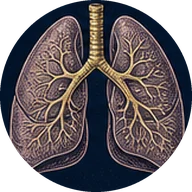
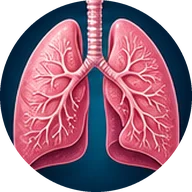
Themapictogrammen: frissere ElevenLabs-medaillons (klassieke versie bewaard)
Claude-Session: https://claude.ai/code/session_01SiyXcNeua6wp9N9nME8PhR

diff --git a/kunst.html b/kunst.html
@@ -40,7 +40,7 @@ a.figlink{display:block;text-decoration:none}
 <div id="lijst"></div>
 <section class="thema">
   <h2>Pictogrammen van de thema's</h2>
-  <p>De ronde medaillons op de hoofdpagina, uitgeknipt uit één vel zodat ze dezelfde stijl hebben (img/kunst/iconen/). De andere drie vellen staan in varianten/.</p>
+  <p>De ronde medaillons op de hoofdpagina, uitgeknipt uit één vel zodat ze dezelfde stijl hebben (img/kunst/iconen/; Kamiel 21 okt 2026: de eerste, klassieke versie voelde te vergankelijk, dus nu een frissere; de klassieke staat in iconen/klassiek/).</p>
   <div id="iconen" style="display:flex;flex-wrap:wrap;gap:14px"></div>
   <p class="lbl">Alle vellen</p><div class="var"></div>
 </section>
@@ -72,7 +72,7 @@ const THEMAS=[
 const fig=(src,cap,cls='',alt='')=>`<a class="figlink" href="${src}"><figure class="${cls}"><img src="${src}" alt="${alt}" loading="lazy"><figcaption>${cap}</figcaption></figure></a>`;
 const ICONEN=['cellen','dna','stofwisseling','voeding','transport','gaswisseling','afweer','regeling','voortplanting','erfelijkheid','evolutie','gedrag','planten','ecologie','milieu','examens'];
 document.getElementById('iconen').innerHTML=ICONEN.map(i=>`<figure style="width:96px;background:none;border:0;text-align:center"><img src="img/kunst/iconen/${i}.webp" alt="Pictogram ${i}" style="width:80px;height:80px;aspect-ratio:1;border-radius:999px;margin:0 auto;border:1px solid var(--goud)"><figcaption style="padding:4px 0 0">${i}</figcaption></figure>`).join('');
-document.querySelector('#iconen').parentElement.querySelector('.var').innerHTML=[1,2,3,4].map(k=>fig(`img/kunst/varianten/iconen-${k}.webp`,`Vel ${k}${k===1?' · gebruikt':''}`,k===1?'gekozen':'',`Pictogramvel ${k}`)).join('');
+document.querySelector('#iconen').parentElement.querySelector('.var').innerHTML=[1,2,3,4].map(k=>fig(`img/kunst/varianten/iconen-fris-${k}.webp`,`Fris vel ${k}${k===3?' · gebruikt':''}`,k===3?'gekozen':'',`Pictogramvel fris ${k}`)).join('')+[1,2,3,4].map(k=>fig(`img/kunst/varianten/iconen-${k}.webp`,`Klassiek vel ${k}`,'',`Pictogramvel klassiek ${k}`)).join('');
 document.getElementById('proef').innerHTML=['cellen','dna','evolutie'].flatMap(t=>['gravure','kleur'].map(st=>fig(`img/kunst/thema/${t}-${st}.webp`,`${t} · ${st}`,'',`${t} in ${st}stijl`))).join('');
 document.getElementById('lijst').innerHTML=THEMAS.map(t=>`<section class="thema">
   <h2>${t.naam}</h2><p>${t.tekst}</p>

diff --git a/index.html b/index.html
@@ -2773,7 +2773,7 @@ function grondWissel(){
 function home(){
   const nf=id=>HOOFDSTUKKEN[id]?HOOFDSTUKKEN[id].films.length:0;
   const thema=id=>{const h=HOOFDSTUKKEN[id];if(!h)return '';const vwo=/^vwo\b/.test(h.meta||'')?' <span class="vwo-tag mono">vwo</span>':'';
-    return `<li><a href="#${id}">${ICOON.includes(id)?`<span class="tk foto"><img src="img/kunst/iconen/${id}.webp" alt="" width="64" height="64" decoding="async"></span>`:`<span class="tk">${kunst(id)}</span>`}<b>${esc(h.titel)}${vwo}</b><span class="mat">${esc(telling(id))}</span></a></li>`};
+    return `<li><a href="#${id}">${ICOON.includes(id)?`<span class="tk foto"><img src="img/kunst/iconen/${id}.webp?v=2" alt="" width="64" height="64" decoding="async"></span>`:`<span class="tk">${kunst(id)}</span>`}<b>${esc(h.titel)}${vwo}</b><span class="mat">${esc(telling(id))}</span></a></li>`};
   const OB=[['32A','Van cel tot lichaam','cellen, organen en hoe je lijf werkt','cellen'],['32B','Hoe leven doorgaat','voortplanting, erfelijkheid en evolutie','evolutie'],['32C','Gezond blijven','voeding, slaap, microben en ziek worden','afweer'],['33C','Natuur om je heen','wie woont waar en wie eet wie','ecologie']];
   let out=grondLaag()+`<section class="wrap hero hero-kort">
     <div>

diff --git a/CLAUDE.md b/CLAUDE.md
@@ -1,6 +1,6 @@
 # Biologie bij Kamiel — werkafspraken voor Claude
 
-Statische site (GitHub Pages, branch `main`, map `/`): `index.html` is de nieuwe site (sinds 12 okt 2026; de inhoud staat als JSON in `HOOFDSTUKKEN` en `NIVEAUS` bovenin het script, hash-routes `#<hoofdstuk>`, `#films`, `#tools`, `#pta`). Sinds 20 okt 2026 is de hoofdpagina (`#home`, menu 'Thema's') opgebouwd uit drie vlakken los van het PTA: 'Van molecuul tot planeet' (alle thema's, gegroepeerd in `BASIS` in het script), 'Eerste ontdekkingen' (onderbouw, uit `NIVEAUS.onderbouw`) en 'Een kijkje vooruit' (Wat word jij?, richtingen in `VERDER` → `vervolg.html#<cluster>`); de oude hoofdpagina per PTA-onderdeel staat onder het tabblad 'PTA Agora' (`#pta`, functie `pta()`). Een nieuw thema zet je ook in `BASIS`. Achtergrond hoofdpagina (Kamiel 20 okt 2026: kunst en biologie gecombineerd, niet per se de thema's): vier procedureel getekende bio-art-platen in `KUNSTPLATEN` (Groei: zonnebloemspiraal en varens · Onder de microscoop: radiolariën en diatomeeën · Netwerk: schimmeldraden · In zee: kwallen en nautilus) plus beeldplaten in `FOTOPLATEN`, met ElevenLabs gemaakte nieuwe versies van dezelfde vier (21 okt 2026: `img/kunst/plankton.webp`, `groei.webp`, `netwerk.webp`, `zee.webp`, en als nieuwe thema's zonder oude tekening `oerbos.webp`, `mieren.webp` (mierenkolonie) en `kolibrie.webp` (de kolibrie is een videoloop van 5 s, `kolibrie.webm` + `.mp4`, poster = `kolibrie.webp`; derde veld in `FOTOPLATEN` = video, speelt alleen als hij zichtbaar is via `grondVideo()`, niet bij 'minder beweging'; seedance-video kostte ±14.000 credits. Vierde veld `{voor:[cx,cy,rx,ry]}` (beeldfracties) tekent dat deel van de plaat via canvas `#kunstvoor` (`voorLus`, mix-blend lighten, zachte ellips) bovenop de titelkaart en het eerste vlak eronder: Kamiel wilde de kolibrie vóór de kaart). Kamiel 21 okt 2026: de getekende platen staan in de donkere stand even uit (`TEKENPLATEN_DONKER=false`, klasse `zonder-tekening`); in de lichte stand draaien ze nog, want de beelden zijn donker; De ronde themapictogrammen in de themategels van de hoofdpagina zijn sinds 21 okt 2026 ElevenLabs-medaillons (`img/kunst/iconen/<id>.webp`, uitgeknipt uit één vel zodat de stijl gelijk is; vellen in `varianten/iconen-1..4.webp`, vel 1 gebruikt), lijst `ICOON` in index.html (niet in de lijst = oude lijntekening uit `KUNST`; elders op de site blijven de lijntekeningen). Themaplaten als ElevenLabs-gravure voor alle 16 thema's (Kamiel 21 okt 2026 koos de gravurestijl, net als de wolf; de procedurele platen in `T.<id>` blijven als reserve staan): `img/themakunst/<id>-gravure.webp`, ingebouwd via `GRAVURE` in js/themakunst.js (`[bestand, x, y, breedte]` in het 1600×1000-vlak, standaard 640, 215, 900; zachte radiale maskerrand zodat de iets lichtere navy van het beeld niet als rechthoek opvalt; hoofdfiguur leeg, zonder uitsparing). De kleurproeven staan nog in `img/kunst/thema/` en op kunst.html; Haeckel-achtig, donker navy, rustig vlak links-midden; alleen in de donkere stand, de roulatie slaat verborgen platen over). Kamiel wil oud en nieuw voorlopig náást elkaar in de roulatie om te vergelijken. Alle achtergronden worden bewaard in `img/kunst/`: `oud/` = de getekende platen als SVG (rustig en intens, donkere kleuren; opnieuw te maken uit `KUNSTPLATEN`), `varianten/` = alle ElevenLabs-varianten (`<thema>-1..4.webp`; van plankton alleen de gekozen versie), ElevenLabs-flow https://elevenlabs.io/app/flows/CJlOchvhkxSLAAT5zVTX. Vergelijkpagina: `kunst.html` (niet gelinkt, noindex; lijst `THEMAS` in het script); zet een nieuwe achtergrond daar ook bij, vaste laag over het hele scherm die elke 14 s overvloeit (`grondWissel`); geen korrel. Drie standen via de knop naast licht/donker (`#kunstknop`, alleen op de hoofdpagina; localStorage `kunst`, ook `?kunst=`): `rustig` (standaard; de kunst schemert licht door de vlakken), `intens` (veel meer en vollere kunst met kleurwolken, dikkere lijnen, titel op matglas) en `uit`. Body krijgt `data-kunst`. Themapagina's (Kamiel 20 okt 2026: intense kunst, dikker en kleurrijker, geïnspireerd door het thema zelf) krijgen een eigen plaat uit `js/themakunst.js`: `THEMAKUNST[id]()` = achtergrond (vaste laag, met een uitgespaarde ellips rechtsboven) en `THEMAHELD[id]()` = hoofdfiguur groot in de kop (bv. een eigen schets van Charles Darwin bij Evolutie, hart bij Transport, neuron bij Regeling). Dezelfde kunstknop geldt (rustig = halve sterkte, intens = vol, uit = gewone pagina met het oude embleem); kop en filmlijst staan dan op matglas. Na een wijziging aan themakunst.js de versie `?v=` in index.html bijwerken (md5, 8 tekens). Een nieuw thema krijgt ook een plaat en een hoofdfiguur. Stijl (Kamiel 20 okt 2026, na de eerste versie): realistischer en serieuzer, als oude natuurplaten en gravures: fijne inktlijnen (var(--text)/--text2), arcering en stippels in plaats van vlakke kleur (patterns `tk-arc`, `tk-kruis`, `tk-stip`), kleur alleen waar het iets toevoegt (per thema in `ACCENT`, bv. rood bloed bij Transport, groene erwten bij Erfelijkheid); Darwin als zwart-witte gravure in een ovaal medaillon. Ecologie (Kamiel 21 okt 2026: 'een majestueuze wolf in een donker woud, als een echt beest'): `wolf()` = silhouet uit punten (Catmull-Rom) met duizenden vachtstreken per lichaamsdeel (donker zadel, lichte buik, halskraag, donkere staartpunt), barnsteen ogen, vaste grijstinten zodat hij in licht en donker hetzelfde is; `woud()` = vaste nachtscène (maan, sterren, drie rijen sparren, mist). Sinds 21 okt 2026 (Kamiel: 'strakke versie uitproberen') is de Ecologie-plaat een met ElevenLabs gemaakte gravure (strakke lijnstijl, huilende wolf, maan, Veluwe-achtige bosrand) in `img/themakunst/ecologie-wolf.webp`, rechts geplaatst met zacht uitlopende randen op navy (sinds 21 okt middag kleiner en verder rechts: x 830, y 215, b 780, zodat maan en wolf naast de titelkaart en onder de menubalk vallen); de hoofdfiguur is daarom leeg. `woud()` en `wolf()` staan nog in themakunst.js. Volledige scènes staan in `THEMAKUNST_ZONDERGAT` (geen uitsparing achter de hoofdfiguur). Tabblad 'Agora onderbouw' (`#onderbouw`, functie `onderbouwPagina()`) toont de kerndoelen als kaarten; op de hoofdpagina staan géén kerndoelcodes (Kamiel 20 okt 2026), het onderbouwvlak gebruikt de lijst `OB`. Hoofdmenu (index, challenges, vervolg; houd ze gelijk): Thema's · Films · Tools · Agora (uitklapmenu `details.menu`: PTA Agora, Agora onderbouw, Jaarplanner, PTA-route, Examenatlas, Challenges) · Wat word jij? · Klas live, op één regel. 'Klas live' is sinds 20 okt 2026 de naam voor de werksessies (`sessie/`) op alles wat leerlingen en docent zien; in code en bestandsnamen heet het nog sessie/werksessie. De havo/vwo-knop staat alleen nog op de PTA Agora-pagina zelf, niet in de kopbalk. De oude site staat als `oud.html` en wordt niet meer bijgewerkt; `nieuw/` stuurt door naar de hoofdpagina. Films in `films/<hoofdstuk>/`, tools in `tools/`, `pta-route.html`. `jaarplanner.html` (sinds 21 okt 2026 op de site, Agora-menu) is de jaarplanner 2026-2027 week voor week (tabs havo 4, havo 5, vwo 4+5, vwo 6, PTA-route; `#havo4` enz.), overgenomen uit de claude.ai-artifact https://claude.ai/artifact/W5ueD4LEwp5Dpj8kKWqb5M met `SITE='.'` zodat filmlinks relatief zijn; data in `PLANNERS` bovenin het script. Pas een wijziging aan de planner voortaan hier aan (en eventueel ook in de artifact). `examenatlas.html` is de Examenatlas (CE biologie 2018–2026, ingang per PTA-subonderdeel; data per niveau in `examenatlas/havo.json` en `examenatlas/vwo.json`, gemaakt met `scripts/examenatlas_bouwen.py` uit de oude claude.ai-atlas; koppeling onderwerp → subonderdeel via de methodehoofdstukken, handmatige correcties in `OVERRIDE`; de echte vragen en antwoorden staan als webp-uitsneden in `examenatlas/img/<niveau>/<examen>/` (`<nr>a.webp` = vraag met info sinds de vorige vraag, `a<nr>a.webp` = beoordelingsmodel), gemaakt met `scripts/examenknip/knip.py`, `knip_c.py` en `knip_u.py` (`u<nr>a.webp` = deel van de uitwerkbijlage) uit de pdf's van Kamiel en gekoppeld met `scripts/examenatlas_vragen.py` — draai dat opnieuw na `examenatlas_bouwen.py`). `challenges.html` is een aparte pagina met biologische challenges (hoofdvraag + subvragen); een nieuwe challenge = blok in `CHALLENGES` plus een lijntekening in `KUNST` (sleutel = id), bovenin het script van die pagina. Elke subvraag klapt uit met hulp uit `js/challenges-hulp.js` (`HULP['<id>-<nr>']` = `{c: context, h: 3 hints van algemeen naar concreet (nooit het antwoord), z: zoektermen, k: 'je bent klaar als'-criteria, let: optionele veiligheidsnoot}`); de leerling ziet eerst context + 'denk eerst zelf', hints en zoektermen pas op verzoek, één voor één (Kamiel 20 okt 2026: uitdaging niet weggeven). Een nieuwe challenge krijgt dus ook vier `HULP`-blokken; deeplink `challenges.html#<id>-<nr>` opent die subvraag. `vervolg.html` ('Wat word jij?', studie en beroep) toont vervolgopleidingen per richting (`CLUSTERS`) en gebied (`GEBIEDEN`); per gebied staan de extra films voor dat vak, buiten het PTA (`basis`; een geplande film is een object `{titel, vraag, opbouw, nieuw, bouwt, advies, was, id}` en verschijnt als uitklapbare 'komt nog'-rij met startvraag, hoofdstukken, wat hij toevoegt en de PTA-films waarop hij voortbouwt; dezelfde `id` in meerdere gebieden = één gedeelde film; `schrappen:true` + `reden` = voorstel om te schrappen, alleen zichtbaar met `?k=1`; de films mogen buiten de biologie gaan en laten zien wat je in dat vak echt doet: methoden, gesprekken, techniek, beleid; een af onderwerp wordt `[titel, href]`; zulke films staan in `films/vervolg/`, duur in `films/vervolg/films.json`), en apart daarvan bestaande films uit de lesstof (`pta`: lijst met hrefs, op de pagina 'Al op de site · uit de lesstof (PTA)'; dit blok staat sinds 20 okt 2026 op Kamiels verzoek uit via `TOON_PTA=false` in vervolg.html, de data blijft staan; ook het blok 'De gedeelde kern' (`KERN`) staat uit via `TOON_KERN=false`: Kamiel vindt dat leerlingen eerst het hele curriculum doen voordat ze deze films kijken). Titels en hoofdstuk van die films komen uit `FILMS` in vervolg.html: draai `python3 scripts/vervolg_films.py` na het toevoegen of hernoemen van films (meldt ook dode hrefs). Stap 4 'Opleidingen' (sinds 20 okt 2026, eerst alleen psychologie als voorbeeld): veld `opleidingen` per gebied `{gecontroleerd, jaar, routes:[{niveau, naam, waar, duur, toelating, selectie, link}], let, doorstroom, kennismaken, meer:[[tekst,url]]}`, getoond door `opleidingenBlok`. De balk met de 4 stappen bovenaan (`STAPPEN`) is sinds 20 okt 2026 aanklikbaar en wisselt alle gebiedskaarten tegelijk (variabele `stap`, link `?stap=4`); Stap 1 (de films) is standaard, stap 2/3 en een stap 4 zonder data tonen een 'komt later'-tekst. Kamiel wilde géén tabrij per kaart; de balk (`.stapbalk`) blijft bij scrollen onder de menubalk staan en wordt dan compact (klasse `vast`, functie `plak`; op de telefoon één regel met korte namen `kort`); instellingen dicht bij huis eerst (Radboud, HAN, ROC Nijmegen, Wageningen), feiten opzoeken en datum bijwerken. Films voor 'Wat word jij?' bouw je volgens `films/vervolg/BOUWEN.md` (werkmap `hw/` buiten de repo opzetten, API, bouwen, in de repo zetten); werkwijze per gebied: eerst een kritische check welke geplande films echt iets toevoegen, Kamiel keurt goed, dan alles bouwen. Stap 2 'Een dag uit het werk' volgt (pilot psychologie); stap 3 'Praktijkopdracht' blijft bewust 'later' tot de tools beter zijn, ideeën per gebied in `films/vervolg/STAP3-WENSEN.md`.
+Statische site (GitHub Pages, branch `main`, map `/`): `index.html` is de nieuwe site (sinds 12 okt 2026; de inhoud staat als JSON in `HOOFDSTUKKEN` en `NIVEAUS` bovenin het script, hash-routes `#<hoofdstuk>`, `#films`, `#tools`, `#pta`). Sinds 20 okt 2026 is de hoofdpagina (`#home`, menu 'Thema's') opgebouwd uit drie vlakken los van het PTA: 'Van molecuul tot planeet' (alle thema's, gegroepeerd in `BASIS` in het script), 'Eerste ontdekkingen' (onderbouw, uit `NIVEAUS.onderbouw`) en 'Een kijkje vooruit' (Wat word jij?, richtingen in `VERDER` → `vervolg.html#<cluster>`); de oude hoofdpagina per PTA-onderdeel staat onder het tabblad 'PTA Agora' (`#pta`, functie `pta()`). Een nieuw thema zet je ook in `BASIS`. Achtergrond hoofdpagina (Kamiel 20 okt 2026: kunst en biologie gecombineerd, niet per se de thema's): vier procedureel getekende bio-art-platen in `KUNSTPLATEN` (Groei: zonnebloemspiraal en varens · Onder de microscoop: radiolariën en diatomeeën · Netwerk: schimmeldraden · In zee: kwallen en nautilus) plus beeldplaten in `FOTOPLATEN`, met ElevenLabs gemaakte nieuwe versies van dezelfde vier (21 okt 2026: `img/kunst/plankton.webp`, `groei.webp`, `netwerk.webp`, `zee.webp`, en als nieuwe thema's zonder oude tekening `oerbos.webp`, `mieren.webp` (mierenkolonie) en `kolibrie.webp` (de kolibrie is een videoloop van 5 s, `kolibrie.webm` + `.mp4`, poster = `kolibrie.webp`; derde veld in `FOTOPLATEN` = video, speelt alleen als hij zichtbaar is via `grondVideo()`, niet bij 'minder beweging'; seedance-video kostte ±14.000 credits. Vierde veld `{voor:[cx,cy,rx,ry]}` (beeldfracties) tekent dat deel van de plaat via canvas `#kunstvoor` (`voorLus`, mix-blend lighten, zachte ellips) bovenop de titelkaart en het eerste vlak eronder: Kamiel wilde de kolibrie vóór de kaart). Kamiel 21 okt 2026: de getekende platen staan in de donkere stand even uit (`TEKENPLATEN_DONKER=false`, klasse `zonder-tekening`); in de lichte stand draaien ze nog, want de beelden zijn donker; De ronde themapictogrammen in de themategels van de hoofdpagina zijn sinds 21 okt 2026 ElevenLabs-medaillons (`img/kunst/iconen/<id>.webp`, uitgeknipt uit één vel zodat de stijl gelijk is; Kamiel vond de eerste klassieke versie te 'vergankelijk' en wilde iets frissers: nu de frisse versie uit `varianten/iconen-fris-3.webp` (raster 6×3, zodat de cirkels in 16:9 echt rond blijven; een 4×4-raster werd ovaal), de klassieke staat in `iconen/klassiek/` en `varianten/iconen-1..4.webp`), lijst `ICOON` in index.html (niet in de lijst = oude lijntekening uit `KUNST`; elders op de site blijven de lijntekeningen). Themaplaten als ElevenLabs-gravure voor alle 16 thema's (Kamiel 21 okt 2026 koos de gravurestijl, net als de wolf; de procedurele platen in `T.<id>` blijven als reserve staan): `img/themakunst/<id>-gravure.webp`, ingebouwd via `GRAVURE` in js/themakunst.js (`[bestand, x, y, breedte]` in het 1600×1000-vlak, standaard 640, 215, 900; zachte radiale maskerrand zodat de iets lichtere navy van het beeld niet als rechthoek opvalt; hoofdfiguur leeg, zonder uitsparing). De kleurproeven staan nog in `img/kunst/thema/` en op kunst.html; Haeckel-achtig, donker navy, rustig vlak links-midden; alleen in de donkere stand, de roulatie slaat verborgen platen over). Kamiel wil oud en nieuw voorlopig náást elkaar in de roulatie om te vergelijken. Alle achtergronden worden bewaard in `img/kunst/`: `oud/` = de getekende platen als SVG (rustig en intens, donkere kleuren; opnieuw te maken uit `KUNSTPLATEN`), `varianten/` = alle ElevenLabs-varianten (`<thema>-1..4.webp`; van plankton alleen de gekozen versie), ElevenLabs-flow https://elevenlabs.io/app/flows/CJlOchvhkxSLAAT5zVTX. Vergelijkpagina: `kunst.html` (niet gelinkt, noindex; lijst `THEMAS` in het script); zet een nieuwe achtergrond daar ook bij, vaste laag over het hele scherm die elke 14 s overvloeit (`grondWissel`); geen korrel. Drie standen via de knop naast licht/donker (`#kunstknop`, alleen op de hoofdpagina; localStorage `kunst`, ook `?kunst=`): `rustig` (standaard; de kunst schemert licht door de vlakken), `intens` (veel meer en vollere kunst met kleurwolken, dikkere lijnen, titel op matglas) en `uit`. Body krijgt `data-kunst`. Themapagina's (Kamiel 20 okt 2026: intense kunst, dikker en kleurrijker, geïnspireerd door het thema zelf) krijgen een eigen plaat uit `js/themakunst.js`: `THEMAKUNST[id]()` = achtergrond (vaste laag, met een uitgespaarde ellips rechtsboven) en `THEMAHELD[id]()` = hoofdfiguur groot in de kop (bv. een eigen schets van Charles Darwin bij Evolutie, hart bij Transport, neuron bij Regeling). Dezelfde kunstknop geldt (rustig = halve sterkte, intens = vol, uit = gewone pagina met het oude embleem); kop en filmlijst staan dan op matglas. Na een wijziging aan themakunst.js de versie `?v=` in index.html bijwerken (md5, 8 tekens). Een nieuw thema krijgt ook een plaat en een hoofdfiguur. Stijl (Kamiel 20 okt 2026, na de eerste versie): realistischer en serieuzer, als oude natuurplaten en gravures: fijne inktlijnen (var(--text)/--text2), arcering en stippels in plaats van vlakke kleur (patterns `tk-arc`, `tk-kruis`, `tk-stip`), kleur alleen waar het iets toevoegt (per thema in `ACCENT`, bv. rood bloed bij Transport, groene erwten bij Erfelijkheid); Darwin als zwart-witte gravure in een ovaal medaillon. Ecologie (Kamiel 21 okt 2026: 'een majestueuze wolf in een donker woud, als een echt beest'): `wolf()` = silhouet uit punten (Catmull-Rom) met duizenden vachtstreken per lichaamsdeel (donker zadel, lichte buik, halskraag, donkere staartpunt), barnsteen ogen, vaste grijstinten zodat hij in licht en donker hetzelfde is; `woud()` = vaste nachtscène (maan, sterren, drie rijen sparren, mist). Sinds 21 okt 2026 (Kamiel: 'strakke versie uitproberen') is de Ecologie-plaat een met ElevenLabs gemaakte gravure (strakke lijnstijl, huilende wolf, maan, Veluwe-achtige bosrand) in `img/themakunst/ecologie-wolf.webp`, rechts geplaatst met zacht uitlopende randen op navy (sinds 21 okt middag kleiner en verder rechts: x 830, y 215, b 780, zodat maan en wolf naast de titelkaart en onder de menubalk vallen); de hoofdfiguur is daarom leeg. `woud()` en `wolf()` staan nog in themakunst.js. Volledige scènes staan in `THEMAKUNST_ZONDERGAT` (geen uitsparing achter de hoofdfiguur). Tabblad 'Agora onderbouw' (`#onderbouw`, functie `onderbouwPagina()`) toont de kerndoelen als kaarten; op de hoofdpagina staan géén kerndoelcodes (Kamiel 20 okt 2026), het onderbouwvlak gebruikt de lijst `OB`. Hoofdmenu (index, challenges, vervolg; houd ze gelijk): Thema's · Films · Tools · Agora (uitklapmenu `details.menu`: PTA Agora, Agora onderbouw, Jaarplanner, PTA-route, Examenatlas, Challenges) · Wat word jij? · Klas live, op één regel. 'Klas live' is sinds 20 okt 2026 de naam voor de werksessies (`sessie/`) op alles wat leerlingen en docent zien; in code en bestandsnamen heet het nog sessie/werksessie. De havo/vwo-knop staat alleen nog op de PTA Agora-pagina zelf, niet in de kopbalk. De oude site staat als `oud.html` en wordt niet meer bijgewerkt; `nieuw/` stuurt door naar de hoofdpagina. Films in `films/<hoofdstuk>/`, tools in `tools/`, `pta-route.html`. `jaarplanner.html` (sinds 21 okt 2026 op de site, Agora-menu) is de jaarplanner 2026-2027 week voor week (tabs havo 4, havo 5, vwo 4+5, vwo 6, PTA-route; `#havo4` enz.), overgenomen uit de claude.ai-artifact https://claude.ai/artifact/W5ueD4LEwp5Dpj8kKWqb5M met `SITE='.'` zodat filmlinks relatief zijn; data in `PLANNERS` bovenin het script. Pas een wijziging aan de planner voortaan hier aan (en eventueel ook in de artifact). `examenatlas.html` is de Examenatlas (CE biologie 2018–2026, ingang per PTA-subonderdeel; data per niveau in `examenatlas/havo.json` en `examenatlas/vwo.json`, gemaakt met `scripts/examenatlas_bouwen.py` uit de oude claude.ai-atlas; koppeling onderwerp → subonderdeel via de methodehoofdstukken, handmatige correcties in `OVERRIDE`; de echte vragen en antwoorden staan als webp-uitsneden in `examenatlas/img/<niveau>/<examen>/` (`<nr>a.webp` = vraag met info sinds de vorige vraag, `a<nr>a.webp` = beoordelingsmodel), gemaakt met `scripts/examenknip/knip.py`, `knip_c.py` en `knip_u.py` (`u<nr>a.webp` = deel van de uitwerkbijlage) uit de pdf's van Kamiel en gekoppeld met `scripts/examenatlas_vragen.py` — draai dat opnieuw na `examenatlas_bouwen.py`). `challenges.html` is een aparte pagina met biologische challenges (hoofdvraag + subvragen); een nieuwe challenge = blok in `CHALLENGES` plus een lijntekening in `KUNST` (sleutel = id), bovenin het script van die pagina. Elke subvraag klapt uit met hulp uit `js/challenges-hulp.js` (`HULP['<id>-<nr>']` = `{c: context, h: 3 hints van algemeen naar concreet (nooit het antwoord), z: zoektermen, k: 'je bent klaar als'-criteria, let: optionele veiligheidsnoot}`); de leerling ziet eerst context + 'denk eerst zelf', hints en zoektermen pas op verzoek, één voor één (Kamiel 20 okt 2026: uitdaging niet weggeven). Een nieuwe challenge krijgt dus ook vier `HULP`-blokken; deeplink `challenges.html#<id>-<nr>` opent die subvraag. `vervolg.html` ('Wat word jij?', studie en beroep) toont vervolgopleidingen per richting (`CLUSTERS`) en gebied (`GEBIEDEN`); per gebied staan de extra films voor dat vak, buiten het PTA (`basis`; een geplande film is een object `{titel, vraag, opbouw, nieuw, bouwt, advies, was, id}` en verschijnt als uitklapbare 'komt nog'-rij met startvraag, hoofdstukken, wat hij toevoegt en de PTA-films waarop hij voortbouwt; dezelfde `id` in meerdere gebieden = één gedeelde film; `schrappen:true` + `reden` = voorstel om te schrappen, alleen zichtbaar met `?k=1`; de films mogen buiten de biologie gaan en laten zien wat je in dat vak echt doet: methoden, gesprekken, techniek, beleid; een af onderwerp wordt `[titel, href]`; zulke films staan in `films/vervolg/`, duur in `films/vervolg/films.json`), en apart daarvan bestaande films uit de lesstof (`pta`: lijst met hrefs, op de pagina 'Al op de site · uit de lesstof (PTA)'; dit blok staat sinds 20 okt 2026 op Kamiels verzoek uit via `TOON_PTA=false` in vervolg.html, de data blijft staan; ook het blok 'De gedeelde kern' (`KERN`) staat uit via `TOON_KERN=false`: Kamiel vindt dat leerlingen eerst het hele curriculum doen voordat ze deze films kijken). Titels en hoofdstuk van die films komen uit `FILMS` in vervolg.html: draai `python3 scripts/vervolg_films.py` na het toevoegen of hernoemen van films (meldt ook dode hrefs). Stap 4 'Opleidingen' (sinds 20 okt 2026, eerst alleen psychologie als voorbeeld): veld `opleidingen` per gebied `{gecontroleerd, jaar, routes:[{niveau, naam, waar, duur, toelating, selectie, link}], let, doorstroom, kennismaken, meer:[[tekst,url]]}`, getoond door `opleidingenBlok`. De balk met de 4 stappen bovenaan (`STAPPEN`) is sinds 20 okt 2026 aanklikbaar en wisselt alle gebiedskaarten tegelijk (variabele `stap`, link `?stap=4`); Stap 1 (de films) is standaard, stap 2/3 en een stap 4 zonder data tonen een 'komt later'-tekst. Kamiel wilde géén tabrij per kaart; de balk (`.stapbalk`) blijft bij scrollen onder de menubalk staan en wordt dan compact (klasse `vast`, functie `plak`; op de telefoon één regel met korte namen `kort`); instellingen dicht bij huis eerst (Radboud, HAN, ROC Nijmegen, Wageningen), feiten opzoeken en datum bijwerken. Films voor 'Wat word jij?' bouw je volgens `films/vervolg/BOUWEN.md` (werkmap `hw/` buiten de repo opzetten, API, bouwen, in de repo zetten); werkwijze per gebied: eerst een kritische check welke geplande films echt iets toevoegen, Kamiel keurt goed, dan alles bouwen. Stap 2 'Een dag uit het werk' volgt (pilot psychologie); stap 3 'Praktijkopdracht' blijft bewust 'later' tot de tools beter zijn, ideeën per gebied in `films/vervolg/STAP3-WENSEN.md`.
 
 ## Elke nieuwe of aangepaste film krijgt een bronmap
 
